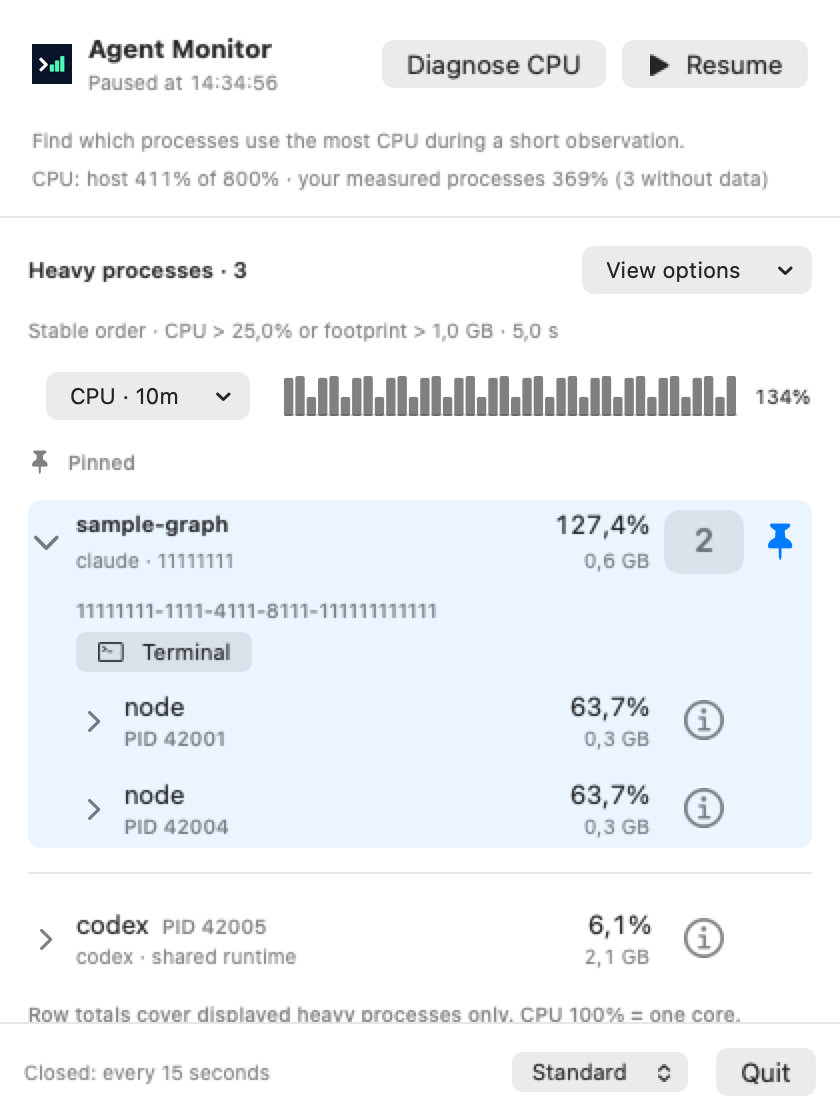
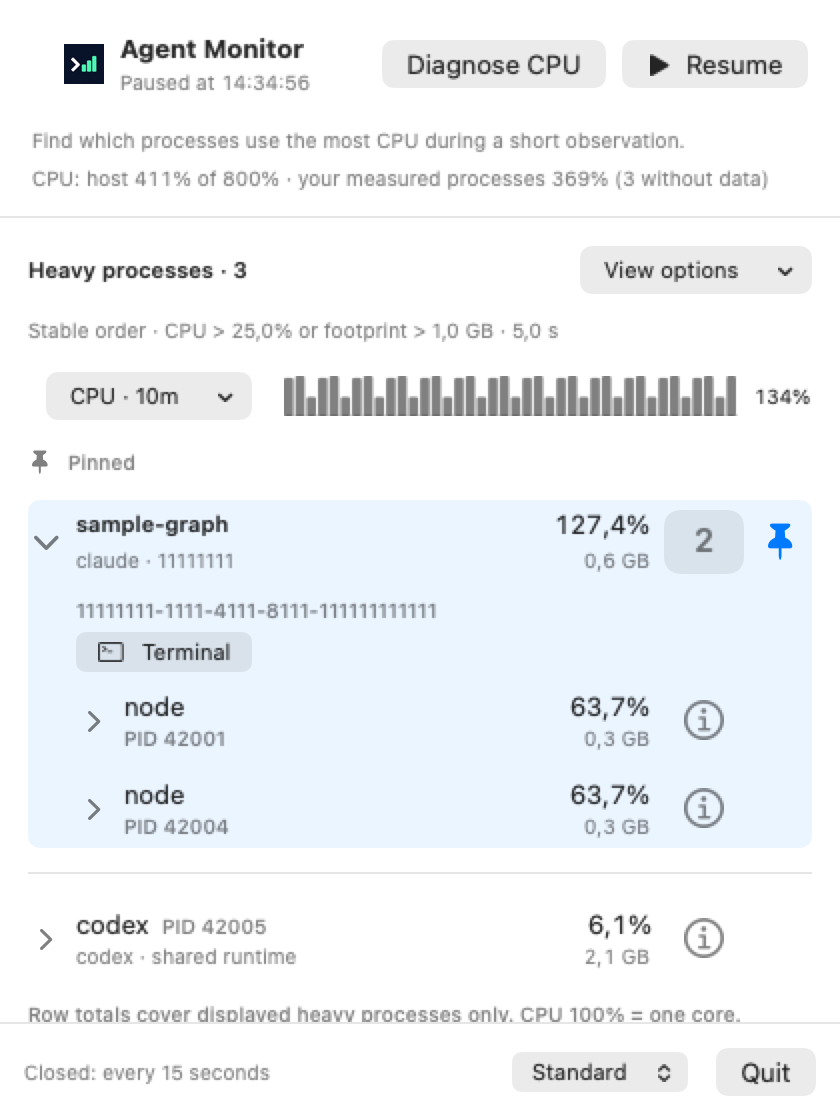
fix(menubar): keep close-button clearance stable during detachment
Reserve horizontal space before dragging starts while preserving the right-hand controls. Remove post-release top padding, which caused a visible jump and reduced table space.

diff --git a/Tests/AgentMonitorMenuBarTests/MenuBarRenderTests.swift b/Tests/AgentMonitorMenuBarTests/MenuBarRenderTests.swift
@@ -454,37 +454,39 @@ private struct DisclosureChevronFixture: View {
     #expect(delegate.popoverShouldDetach(NSPopover()))
 }
 
-@Test @MainActor func detachedHeaderReservesCloseButtonSpaceAndResetsOnReopen() async throws {
-    let model = MenuBarModel { _, _, _, _ in }
-    let delegate = MenuBarDelegate(model: model)
+@Test @MainActor func detachmentDoesNotReflowTheHeader() async throws {
+    let snapshot = try menuBarFixture()
+    let model = MenuBarModel { _, _, _, receive in try await receive(snapshot) }
+    let delegate: any NSPopoverDelegate = MenuBarDelegate(model: model)
     model.open()
+    await model.waitForCollection()
     let host = NSHostingView(rootView: MenuBarView(model: model).background(Color.white))
     host.appearance = NSAppearance(named: .aqua)
     host.frame = NSRect(x: 0, y: 0, width: 420, height: 560)
-    delegate.popoverDidDetach(NSPopover())
-    #expect(model.isDetached)
-    host.layoutSubtreeIfNeeded()
-    #expect(host.fittingSize == NSSize(width: 420, height: 560))
-    let bitmap = try #require(host.bitmapImageRepForCachingDisplay(in: host.bounds))
-    host.cacheDisplay(in: host.bounds, to: bitmap)
-    let scale = Double(bitmap.pixelsWide) / host.bounds.width
-    for y in 0..<Int(24 * scale) {
-        for x in 0..<bitmap.pixelsWide {
-            let color = try #require(bitmap.colorAt(x: x, y: y)?.usingColorSpace(.deviceRGB))
-            #expect(color.redComponent > 0.99 && color.greenComponent > 0.99 && color.blueComponent > 0.99)
+    func headerImage() throws -> Data {
+        host.layoutSubtreeIfNeeded()
+        let header = NSRect(x: 0, y: 0, width: 420, height: 100)
+        let bitmap = try #require(host.bitmapImageRepForCachingDisplay(in: header))
+        host.cacheDisplay(in: header, to: bitmap)
+        let scale = Double(bitmap.pixelsWide) / header.width
+        var occupiedCloseCornerPixels = 0
+        for y in 0..<Int(32 * scale) {
+            for x in 0..<Int(32 * scale) {
+                let color = try #require(bitmap.colorAt(x: x, y: y)?.usingColorSpace(.deviceRGB))
+                if min(color.redComponent, color.greenComponent, color.blueComponent) < 0.99 {
+                    occupiedCloseCornerPixels += 1
+                }
+            }
         }
+        #expect(occupiedCloseCornerPixels == 0)
+        return try #require(bitmap.representation(using: .png, properties: [:]))
     }
-    if let output = ProcessInfo.processInfo.environment["MENUBAR_DETACHED_PREVIEW_PATH"] {
-        try #require(bitmap.representation(using: .png, properties: [:])).write(
-            to: URL(fileURLWithPath: output))
-    }
-    delegate.popoverWillClose(
-        Notification(
-            name: NSPopover.willCloseNotification,
-            userInfo: [NSPopover.closeReasonUserInfoKey: NSPopover.CloseReason.standard.rawValue]))
-    #expect(!model.isDetached)
-    model.open()
-    #expect(!model.isDetached)
+    let before = try headerImage()
+    delegate.popoverDidDetach?(NSPopover())
+    let after = try headerImage()
+    #expect(before == after)
+    #expect(host.fittingSize == NSSize(width: 420, height: 560))
+    #expect(model.isOpen)
     await model.stop()
 }
 

diff --git a/Sources/AgentMonitorMenuBar/MenuBarModel.swift b/Sources/AgentMonitorMenuBar/MenuBarModel.swift
@@ -22,7 +22,6 @@ final class MenuBarModel {
     @ObservationIgnored private var arrivalExpiry: Task<Void, Never>?
     @ObservationIgnored private var arrivalDeadline: ContinuousClock.Instant?
     private(set) var isOpen = false
-    private(set) var isDetached = false
     private(set) var error: String?
     private(set) var lastActionResult: ActionResult?
     private(set) var savedMessage: SavedMessage?
@@ -79,11 +78,6 @@ final class MenuBarModel {
         updateArrivals()
         refreshIndicator()
         startCollection()
-    }
-
-    func detach() {
-        guard isOpen else { return }
-        isDetached = true
     }
 
     func setLiveIcon(_ enabled: Bool) {
@@ -144,7 +138,6 @@ final class MenuBarModel {
     }
 
     func close() {
-        isDetached = false
         diagnosis.dismiss()
         if let panel = report.actionPanel {
             switch panel.phase {

diff --git a/Sources/AgentMonitorMenuBar/MenuBarView.swift b/Sources/AgentMonitorMenuBar/MenuBarView.swift
@@ -53,8 +53,7 @@ struct MenuBarView: View {
                     .help("Hold the displayed sample and row order. Resume shows the latest sample (p).")
                 }
             }
-            .padding()
-            .padding(.top, model.isDetached ? 24 : 0)
+            .padding(.vertical, 16).padding(.trailing, 16).padding(.leading, 32)
             if !model.diagnosis.state.isVisible {
                 Text(DiagnosisViewState.purpose)
                     .font(.caption).foregroundStyle(.secondary)

diff --git a/Sources/AgentMonitorMenuBar/MenuBarApp.swift b/Sources/AgentMonitorMenuBar/MenuBarApp.swift
@@ -111,7 +111,6 @@ final class MenuBarDelegate: NSObject, NSApplicationDelegate, NSPopoverDelegate 
         model.close()
     }
     func popoverShouldDetach(_ popover: NSPopover) -> Bool { true }
-    func popoverDidDetach(_ popover: NSPopover) { model.detach() }
 
     func applicationShouldTerminate(_ sender: NSApplication) -> NSApplication.TerminateReply {
         Task {

diff --git a/PLAN.md b/PLAN.md
@@ -10,7 +10,7 @@ Keep this file limited to unfinished work, scope decisions and the next action. 
 
 - [ ] **ACTIONS-03 — Complete manual terminal-focus validation.** Terminal.app tab selection is implemented and was confirmed by the user on 2026-10-15. Next action: check a background window, minimized window, another Space, full screen, monitor and target in the same window, and the first Automation prompt using disposable tabs. Follow the [manual gate](docs/development.md#manual-terminal-focus-check); fake-adapter tests cannot establish macOS activation behavior.
 - [ ] **MENUBAR-01 — User-run native smoke test pending.** Headless checks are the default; Computer Use is disabled. The user runs the [manual macOS smoke test](docs/development.md#manual-macos-smoke-test) and reports results before this integration gate can close. First retest initial table focus, retained menu focus across refreshes, ordinary ←/→ and scoped Shift+←/→ on group/process headers; headless policy/input regressions pass, but physical delivery remains unconfirmed. Live app Automation/focus and provider messaging need disposable-session validation; measure ten-minute closed-panel CPU/wakeups separately for the live 15-second icon and static mode before making sustained-energy claims. Distribution is deferred until the app is finished; feature expansion remains a separate decision.
-- [ ] **MENUBAR-03 — Targeted native accessibility and interaction validation.** The user runs live checks when the affected behavior needs them; these are not routine headless-validation gates. Offscreen checks cover fixed heights across sparse/expanded/paused/action states, user-selected sizes, screen capping, inherited light/dark appearance and menu identity across updates. Check finite diagnosis usability, Cancel/Back and Run again with real blocking reads. Action-review drag detachment was confirmed by the user on 2026-10-17; the user reported the row-focus, copy and disclosure fixes working on 2026-10-17. Review the updated diagnosis report layout for readability and confirm that the detached close button clears the header logo/title. Still check detachment while paused and while diagnosis is collecting; confirm state and open-panel sampling survive, then close the detached window and verify the normal close lifecycle and diagnosis cancellation. Assess concurrent collection cost separately before making overhead claims. Check built-in popover drag detachment, continued sampling, detached close/reopen and live anchoring while changing the size preset, enlarged group/count/info targets and their VoiceOver meaning, pin hover/focus feedback and repeated `.` pin/unpin and `y` PID copying, right-click/Control-click status-menu opening and return to normal left-click, first-click View options opening and submenu tracking during refreshes, row arrow navigation and native Return/Space activation with scroll-to-focus, and VoiceOver with synthetic fixtures; [reference findings](docs/research/native-menu-design.md#unresolved-empirical-questions) distinguish source/offscreen evidence from live interaction.
+- [ ] **MENUBAR-03 — Targeted native accessibility and interaction validation.** The user runs live checks when the affected behavior needs them; these are not routine headless-validation gates. Offscreen checks cover fixed heights across sparse/expanded/paused/action states, user-selected sizes, screen capping, inherited light/dark appearance and menu identity across updates. Check finite diagnosis usability, Cancel/Back and Run again with real blocking reads. Action-review drag detachment was confirmed by the user on 2026-10-17; the user reported the row-focus, copy and disclosure fixes working on 2026-10-17. Review the updated diagnosis report layout for readability. Retest the detached close-button/logo clearance during dragging: the fixed leading inset replaces the rejected post-release top padding, without added height or a release-time layout change. Still check detachment while paused and while diagnosis is collecting; confirm state and open-panel sampling survive, then close the detached window and verify the normal close lifecycle and diagnosis cancellation. Assess concurrent collection cost separately before making overhead claims. Check built-in popover drag detachment, continued sampling, detached close/reopen and live anchoring while changing the size preset, enlarged group/count/info targets and their VoiceOver meaning, pin hover/focus feedback and repeated `.` pin/unpin and `y` PID copying, right-click/Control-click status-menu opening and return to normal left-click, first-click View options opening and submenu tracking during refreshes, row arrow navigation and native Return/Space activation with scroll-to-focus, and VoiceOver with synthetic fixtures; [reference findings](docs/research/native-menu-design.md#unresolved-empirical-questions) distinguish source/offscreen evidence from live interaction.
 
 Real terminal Codex workload attribution and live Codex child-recipient routing/message delivery remain [coverage gaps](docs/development.md#validation-coverage), not unfinished PoC acceptance gates. Do not manufacture agent work or send messages to existing sessions to close them without specific authorization.
 

diff --git a/docs/architecture.md b/docs/architecture.md
@@ -270,7 +270,7 @@ TUI and native live tables default to a 5-second interval; text/JSONL default to
 
 ## Native menu bar app
 
-The panel's **Diagnose CPU** button starts the shared finite run without confirmation, including while the live view is paused. Help discloses three one-second waits plus scans and bounded provider lookups. The diagnosis occupies the existing scroll area with Cancel/Run again and a fixed Back control; it does not replace live snapshots, history or icon input. Action review blocks starting diagnosis, and diagnosis has no process actions. Drag detachment is not dismissal for any panel state: the visible detached panel retains action review, saved message draft, pause state, selection, open-panel sampling cadence and any diagnosis run. Popover dismissal and detached-window closure use the ordinary close lifecycle, including discarding and cancelling diagnosis. The delegate distinguishes AppKit’s detach-to-window close reason from standard closure, as defined by `NSPopover.h`; actual detached-window close notification delivery remains a user-run smoke check. Quit drains diagnosis alongside ordinary collection and actions. AppKit’s did-detach callback reserves a 24-point strip above the native header for its overlaid close button; closing resets the detached layout. The header uses the bundled Agent Monitor logo, decoded once and reused across refreshes; the status icon remains the monochrome load indicator.
+The panel's **Diagnose CPU** button starts the shared finite run without confirmation, including while the live view is paused. Help discloses three one-second waits plus scans and bounded provider lookups. The diagnosis occupies the existing scroll area with Cancel/Run again and a fixed Back control; it does not replace live snapshots, history or icon input. Action review blocks starting diagnosis, and diagnosis has no process actions. Drag detachment is not dismissal for any panel state: the visible detached panel retains action review, saved message draft, pause state, selection, open-panel sampling cadence and any diagnosis run. Popover dismissal and detached-window closure use the ordinary close lifecycle, including discarding and cancelling diagnosis. The delegate distinguishes AppKit’s detach-to-window close reason from standard closure, as defined by `NSPopover.h`; actual detached-window close notification delivery remains a user-run smoke check. Quit drains diagnosis alongside ordinary collection and actions. The header keeps a fixed 32-point leading inset in both anchored and detached states, leaving the upper-left close-button area clear before dragging starts. The logo and title move right; the trailing buttons retain their existing right margin, and no vertical space is added. Detachment does not change content insets or reflow the header; AppKit’s did-detach callback runs only after release, so it cannot make room for the close button during dragging. The header uses the bundled Agent Monitor logo, decoded once and reused across refreshes; the status icon remains the monochrome load indicator.
 
 Apple's interface guidance is the platform baseline; CodexBar is the primary visual reference for density, hierarchy and progressive disclosure, with RepoBar and Trimmy as secondary comparisons. The inline composer and action review justify the complex-content exception to Apple's preference for a menu. Keep system typography and semantic colors, and preserve shared core/action ownership. Reference observations and their limits are recorded in [native menu design research](research/native-menu-design.md).
 
